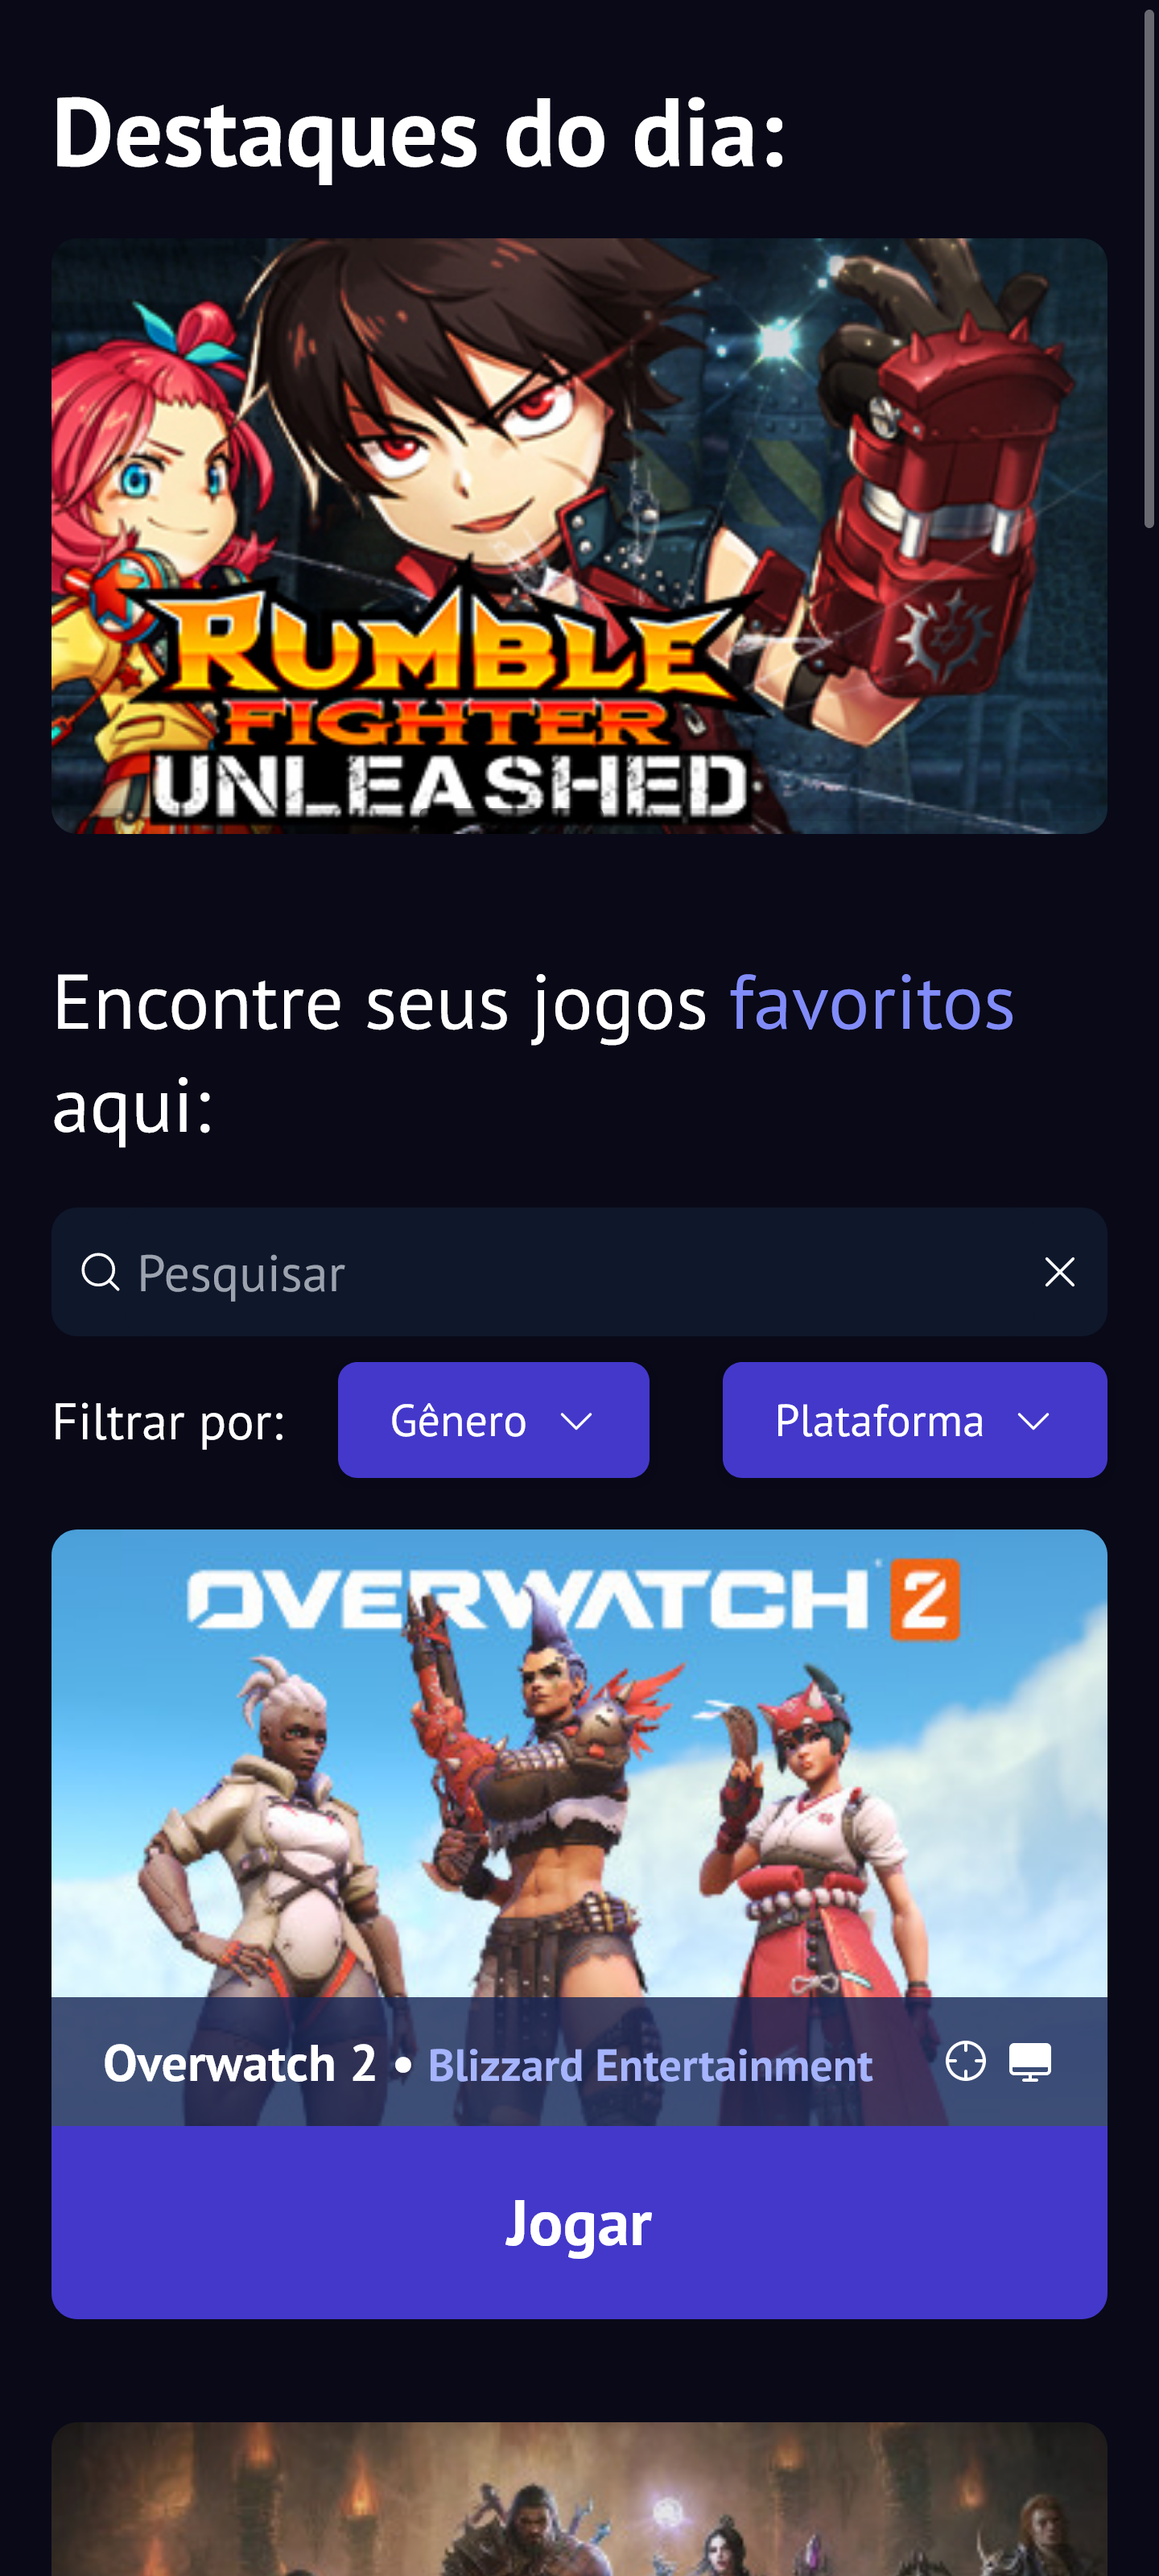
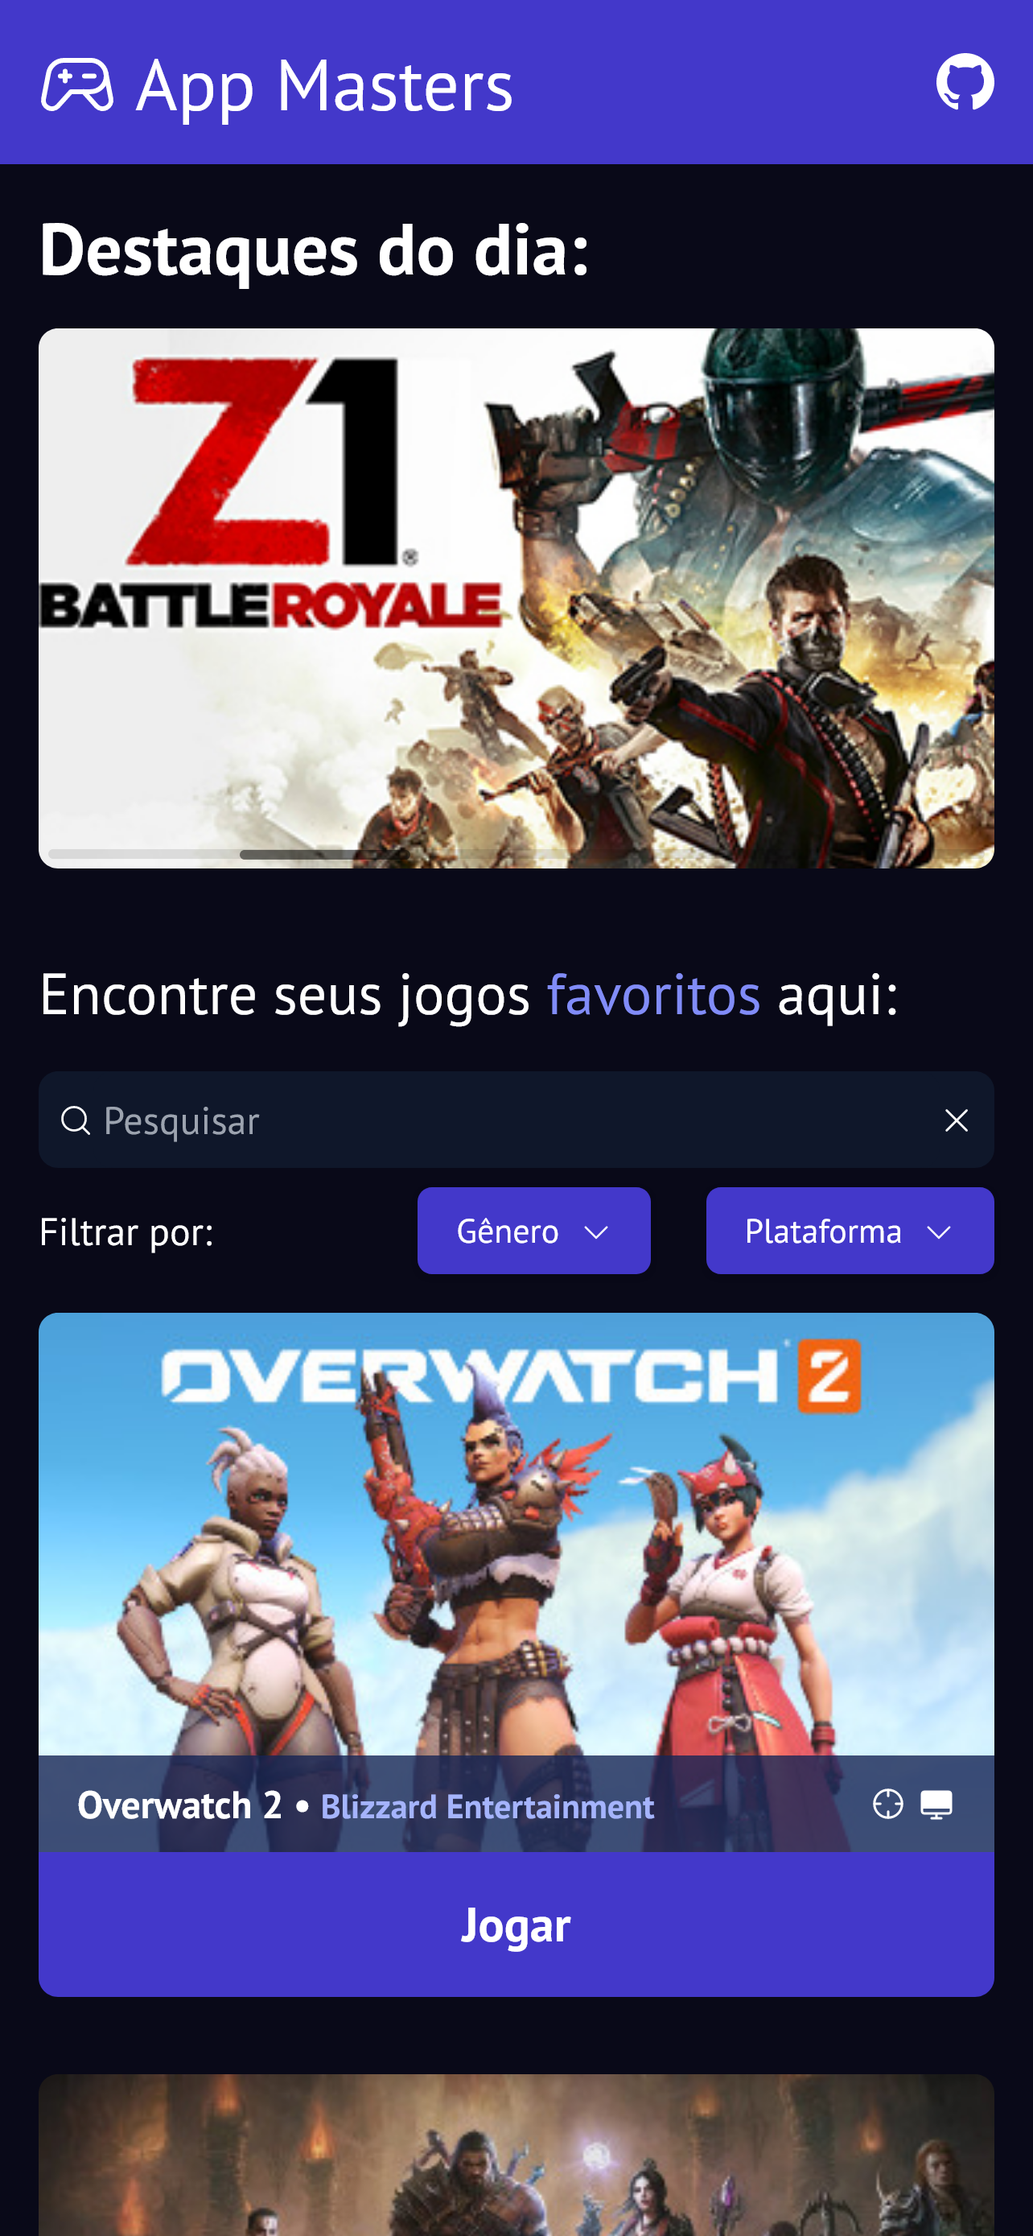
Header

diff --git a/src/components/Header.tsx b/src/components/Header.tsx
@@ -1,0 +1,34 @@
+import { GameController } from "phosphor-react";
+import React from "react";
+
+const Header = () => {
+  return (
+    <div className="flex justify-between items-center w-screen p-4 bg-indigo-700">
+      <h1 className="flex items-center text-3xl">
+        <GameController className="mr-2" size={32} />
+        App Masters
+      </h1>
+      <ul>
+        <li>
+          <a target="_blank" href="https://github.com/rapoxo">
+            <svg
+              height="32"
+              aria-hidden="true"
+              viewBox="0 0 16 16"
+              version="1.1"
+              width="24"
+              data-view-component="true"
+            >
+              <path
+                fill="#fff"
+                d="M8 0c4.42 0 8 3.58 8 8a8.013 8.013 0 0 1-5.45 7.59c-.4.08-.55-.17-.55-.38 0-.27.01-1.13.01-2.2 0-.75-.25-1.23-.54-1.48 1.78-.2 3.65-.88 3.65-3.95 0-.88-.31-1.59-.82-2.15.08-.2.36-1.02-.08-2.12 0 0-.67-.22-2.2.82-.64-.18-1.32-.27-2-.27-.68 0-1.36.09-2 .27-1.53-1.03-2.2-.82-2.2-.82-.44 1.1-.16 1.92-.08 2.12-.51.56-.82 1.28-.82 2.15 0 3.06 1.86 3.75 3.64 3.95-.23.2-.44.55-.51 1.07-.46.21-1.61.55-2.33-.66-.15-.24-.6-.83-1.23-.82-.67.01-.27.38.01.53.34.19.73.9.82 1.13.16.45.68 1.31 2.69.94 0 .67.01 1.3.01 1.49 0 .21-.15.45-.55.38A7.995 7.995 0 0 1 0 8c0-4.42 3.58-8 8-8Z"
+              ></path>
+            </svg>
+          </a>
+        </li>
+      </ul>
+    </div>
+  );
+};
+
+export default Header;

diff --git a/src/pages/index.tsx b/src/pages/index.tsx
@@ -12,6 +12,7 @@ import Card from "@/components/Card";
 import Carousel from "@/components/Carousel";
 import Filter from "@/components/Filter";
 import Head from "next/head";
+import Header from "@/components/Header";
 import { PT_Sans } from "next/font/google";
 import { PacmanLoader } from "react-spinners";
 
@@ -150,10 +151,12 @@ const Home = () => {
 
 
   return (
-    <div className={`pt-5 ${ptSans.className}`}>
+    <div className={`${ptSans.className}`}>
       <Head>
         <title>App Masters</title>
       </Head>
+
+      <Header/>
 
       <div className="flex max-w-screen w-full h-screen  ">
         <main className="w-full">
